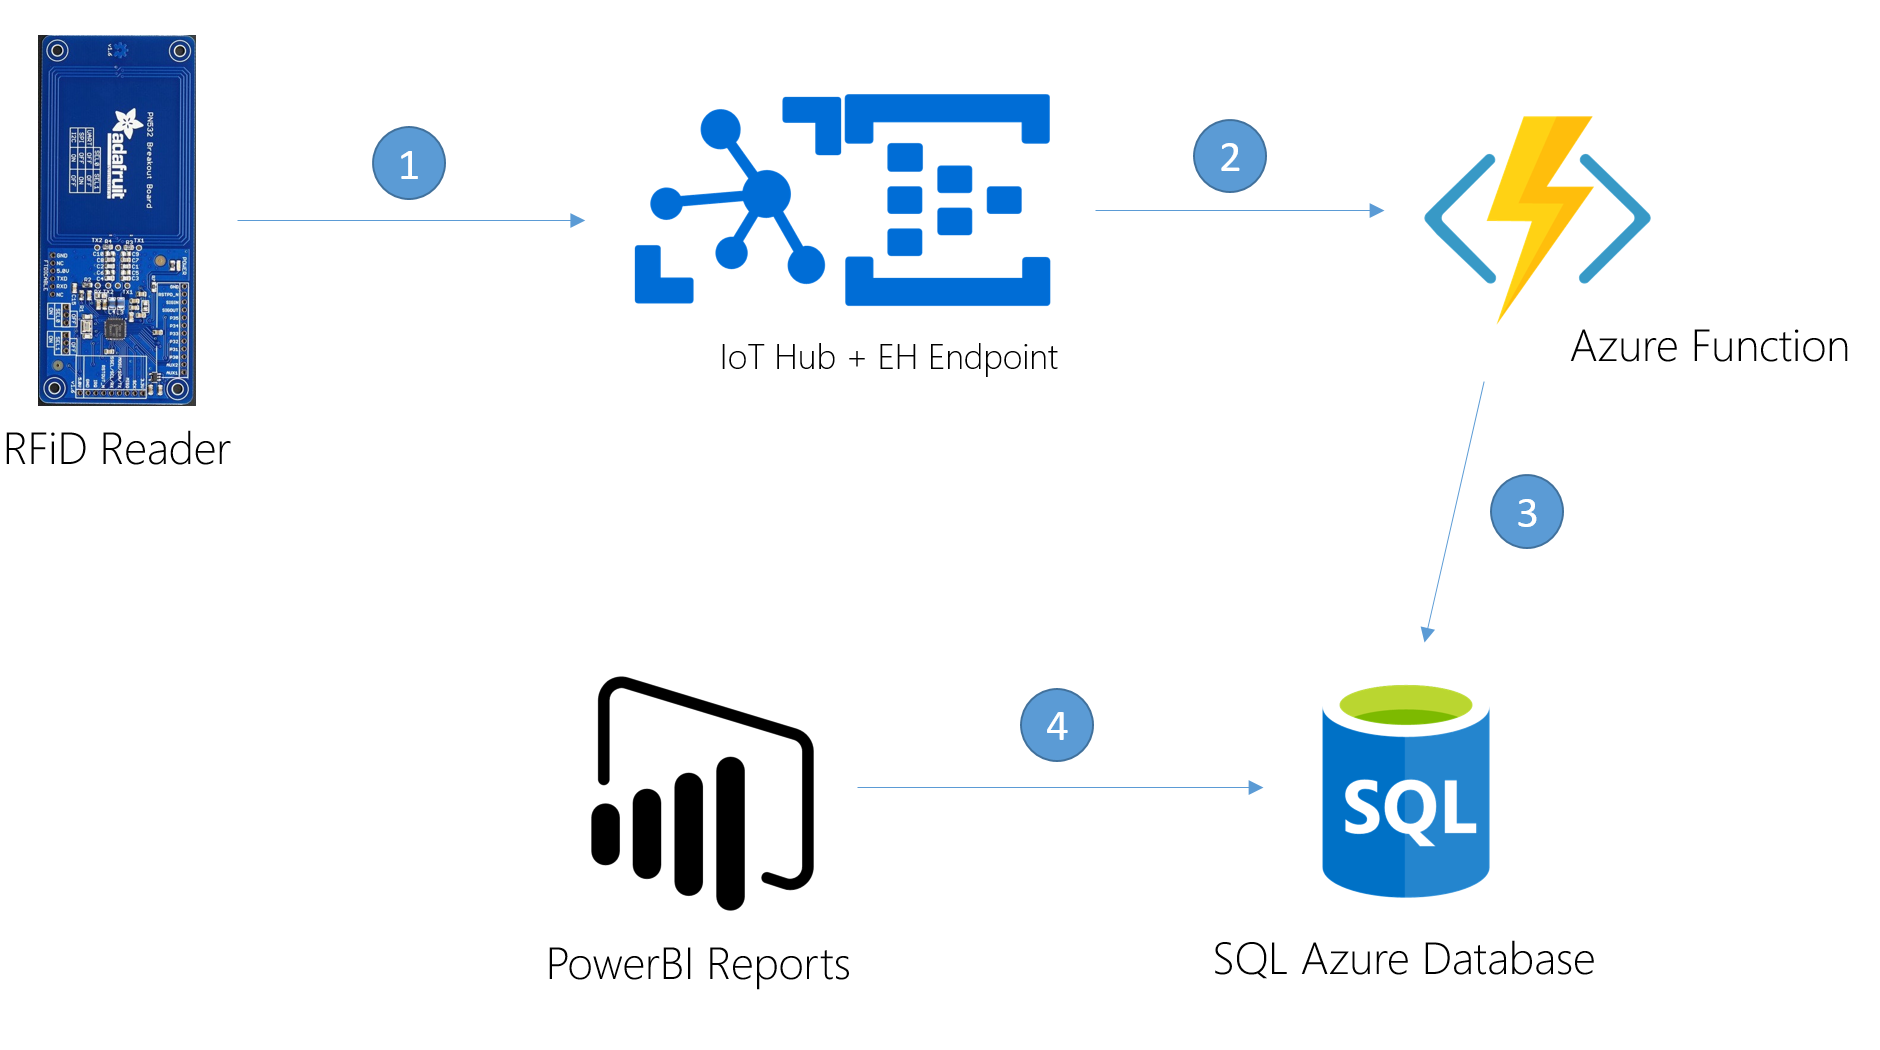
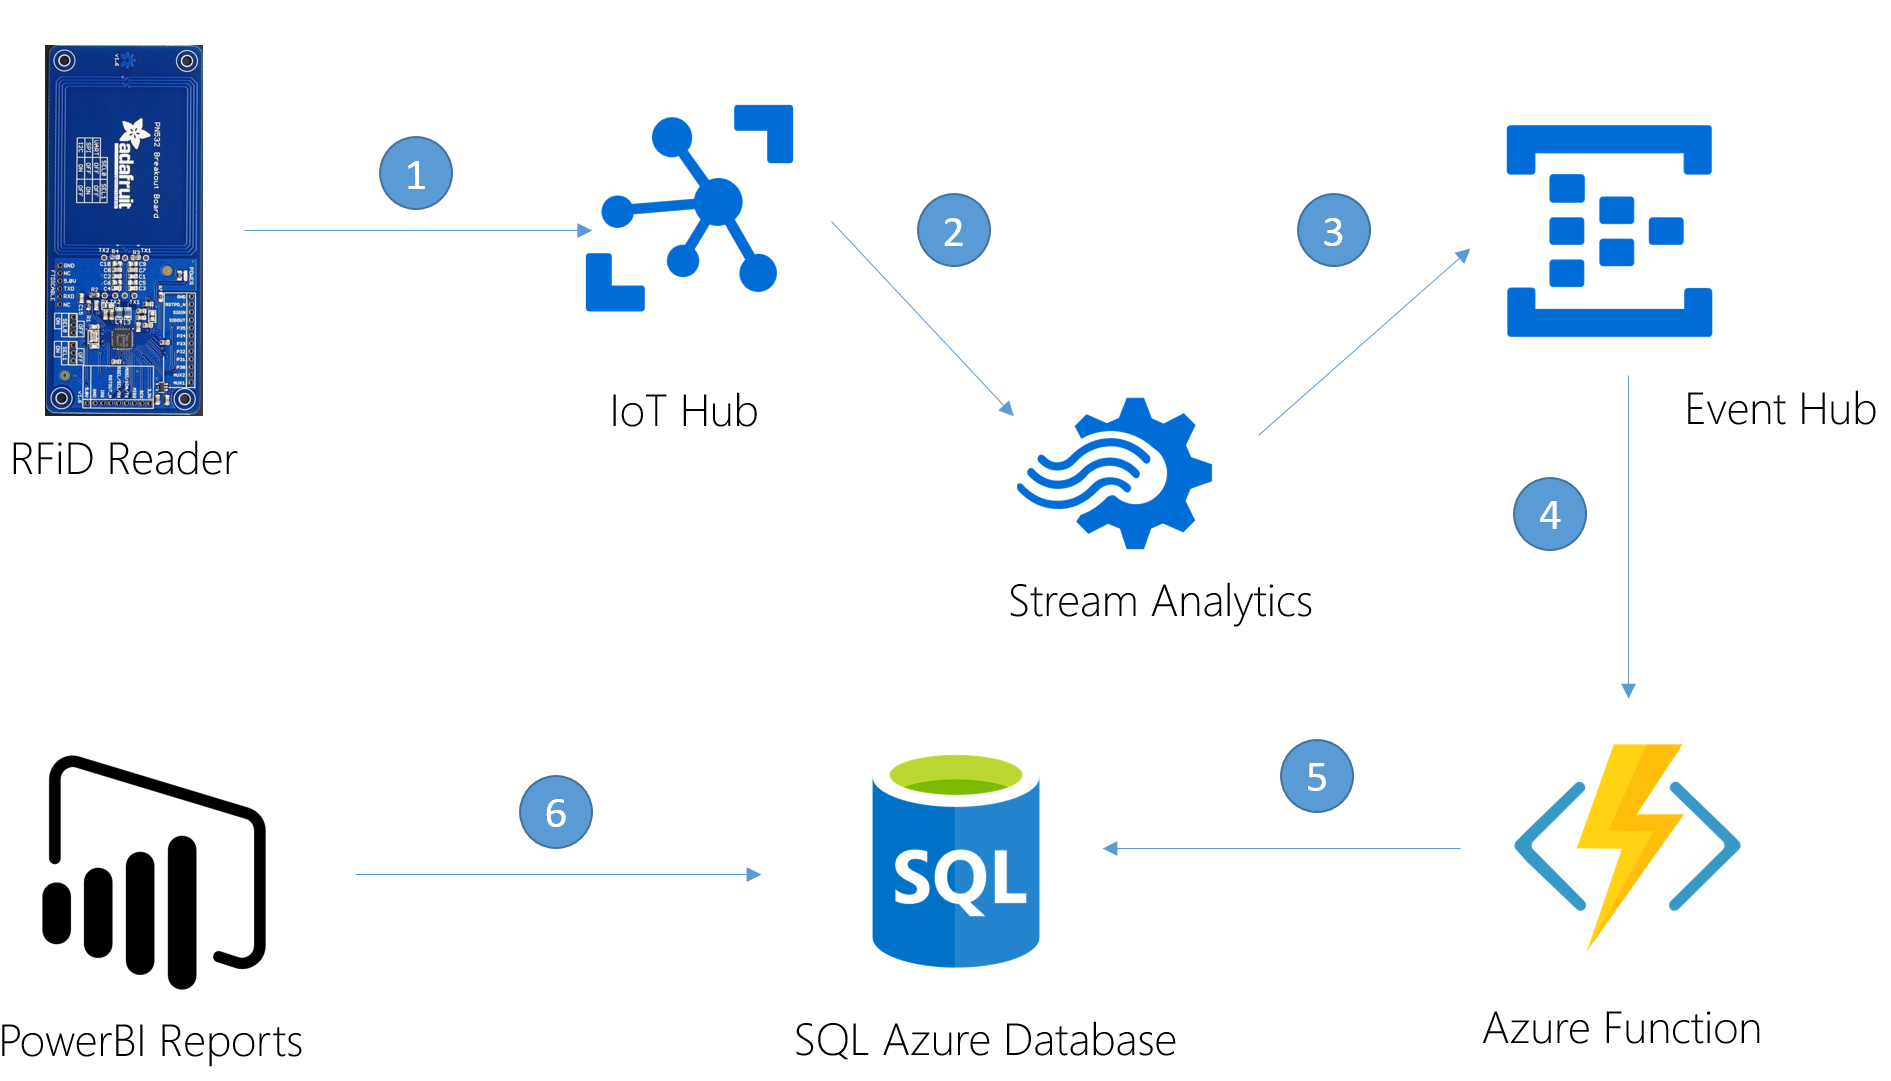
go

diff --git a/Management System and Inventory/README.md b/Management System and Inventory/README.md
@@ -16,10 +16,12 @@ Architecture
 
 ![Architecture](images/architecture.png)
 
-1. An RFiD Reader will scan a tagged item then send the details to an IoT Hub. Each reader could be registered as a unique device.
-2. The scanned data is queued up inside IoT Hub and then made available via an Event Hub compatible endpoint.
-3. An Azure Function is configured to trigger off the arrival of a message at the Event Hub. The details will be inserted/updated in an Azure hosted SQL Database.
-4. PowerBI will be used to build a quick and simple report to display the stock inventory details from the backend database.
+1. An RFiD Reader will scan a tagged item then send the details to an IoT Hub. Each reader will be registered as a unique device.
+2. A Stream Analytics job will remove the scanned data and move it to an Event Hub. Currently nothing is done to the data but in a later update to this scenario this will change.
+3. The data is uploaded to a regular Event Hub where it is queued for processing.
+4. An Azure Function is configured to trigger off the arrival of a message at the Event Hub.
+5. The details of the scanned item will be inserted/updated in an Azure hosted SQL Database.
+6. PowerBI will be used to build a quick and simple report to display the stock inventory details from the backend database.
 
 Basic Hardware Setup
 ====================
